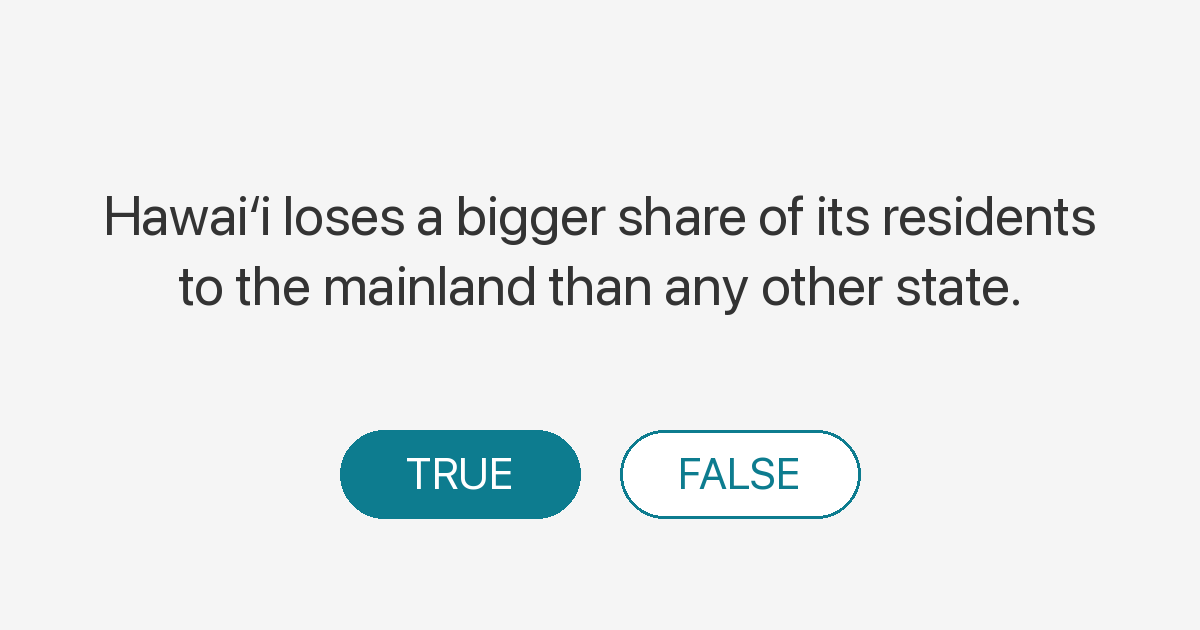
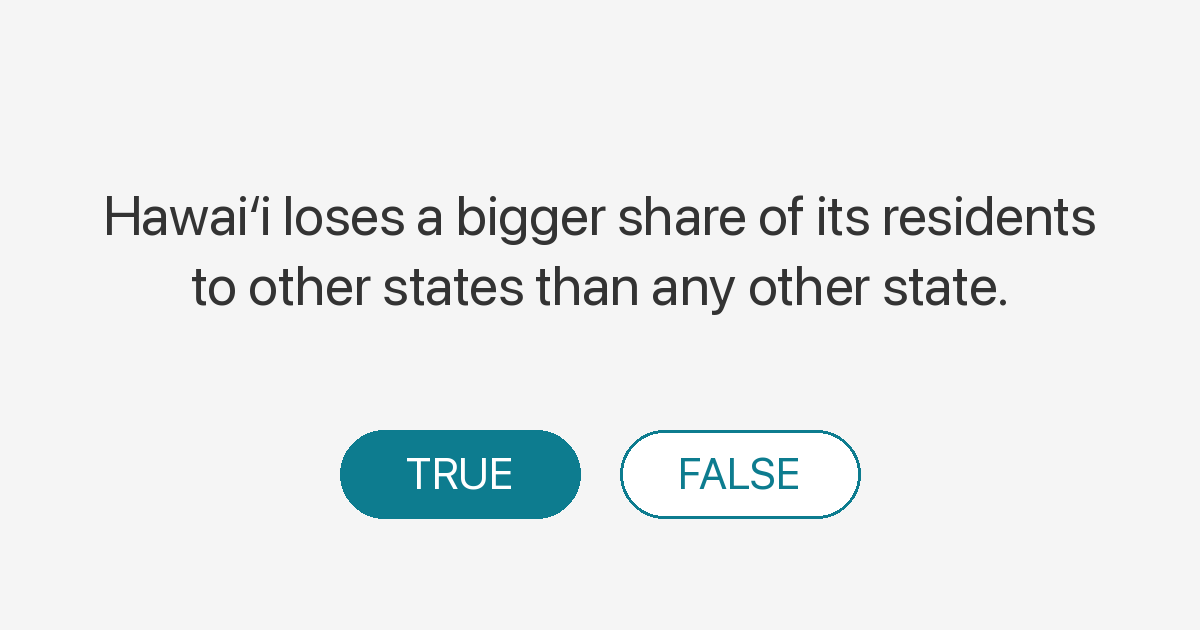
qotd: q063 reword "the mainland" to "other states" (today's question)
dayIndex 52. Claim + reveal answer both reframed from "to the mainland"
to "to other states" (precise for net domestic migration). Dropped the
comma before "than" (comparative takes none). Regenerated q/q063
redirect page and OG card; slug/OG filename left unchanged.

Changed region(s): [[0.1542, 0.4222, 0.8633, 0.5127]]

diff --git a/q/q063/index.html b/q/q063/index.html
@@ -13,7 +13,7 @@
   <meta name="twitter:card" content="summary_large_image">
   <meta name="twitter:title" content="You know Hawaiʻi?">
   <meta name="twitter:image" content="https://hawaiidashboard.org/assets/og/q/hawaii-loses-bigger-share-of-residents-to-mainland-than-any-other-state.png">
-  <meta name="description" content="Hawaiʻi loses a bigger share of its residents to the mainland than any other state.">
+  <meta name="description" content="Hawaiʻi loses a bigger share of its residents to other states than any other state.">
   <link rel="canonical" href="https://hawaiidashboard.org/q/q063/">
   <script>window.location.replace("/?from_q=q063");</script>
   <meta http-equiv="refresh" content="0;url=https://hawaiidashboard.org/?from_q=q063">
@@ -22,8 +22,8 @@
   <p>Redirecting to <a href="https://hawaiidashboard.org/?from_q=q063">You know Hawaiʻi?</a>&hellip;</p>
   <article style="max-width:640px;margin:2rem auto;padding:0 1rem;font-family:-apple-system,BlinkMacSystemFont,'Segoe UI',sans-serif;color:#333;line-height:1.55;">
     <p style="color:#888;font-size:0.875rem;text-transform:uppercase;letter-spacing:0.05em;margin:0;">You know Hawaiʻi?</p>
-    <p style="margin:0.25rem 0 1rem;font-size:1.25rem;font-weight:600;">Hawaiʻi loses a bigger share of its residents to the mainland than any other state.</p>
-    <p><strong>True.</strong> In 2024, Hawaiʻi had a net loss of 64.6 residents per 10,000 to the mainland, the largest of any state.</p>
+    <p style="margin:0.25rem 0 1rem;font-size:1.25rem;font-weight:600;">Hawaiʻi loses a bigger share of its residents to other states than any other state.</p>
+    <p><strong>True.</strong> In 2024, Hawaiʻi had a net loss of 64.6 residents per 10,000 to other states, the largest of any state.</p>
     <p style="margin-top:1.5rem;"><a href="/r/net_domestic_migration_rate/">See the data &rarr;</a></p>
   </article>
 </body>

diff --git a/js/questions.js b/js/questions.js
@@ -647,9 +647,9 @@ const QOTD_QUESTIONS = [
   {
       "id": "q063",
       "slug": "hawaii-loses-bigger-share-of-residents-to-mainland-than-any-other-state",
-      "claim": "Hawaiʻi loses a bigger share of its residents to the mainland than any other state.",
+      "claim": "Hawaiʻi loses a bigger share of its residents to other states than any other state.",
       "correct": true,
-      "answer": "In 2024, Hawaiʻi had a net loss of 64.6 residents per 10,000 to the mainland, the largest of any state.",
+      "answer": "In 2024, Hawaiʻi had a net loss of 64.6 residents per 10,000 to other states, the largest of any state.",
       "chartUrl": "/r/net_domestic_migration_rate/",
       "metric": "net_domestic_migration_rate",
       "metricLabel": "Net Migration",
